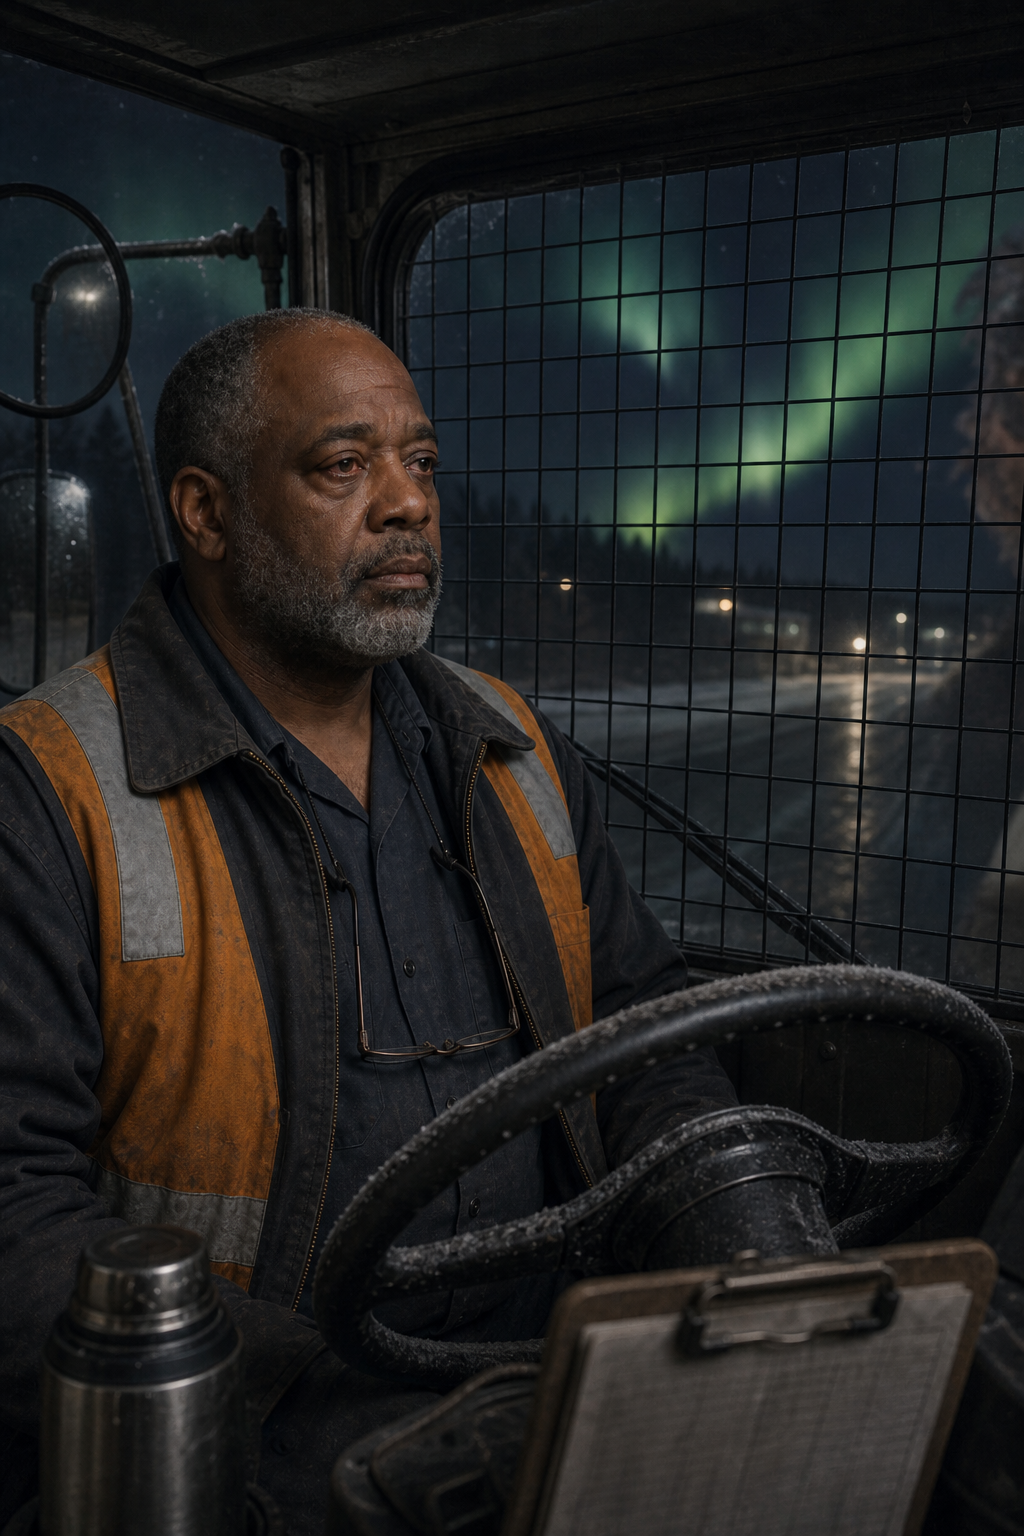
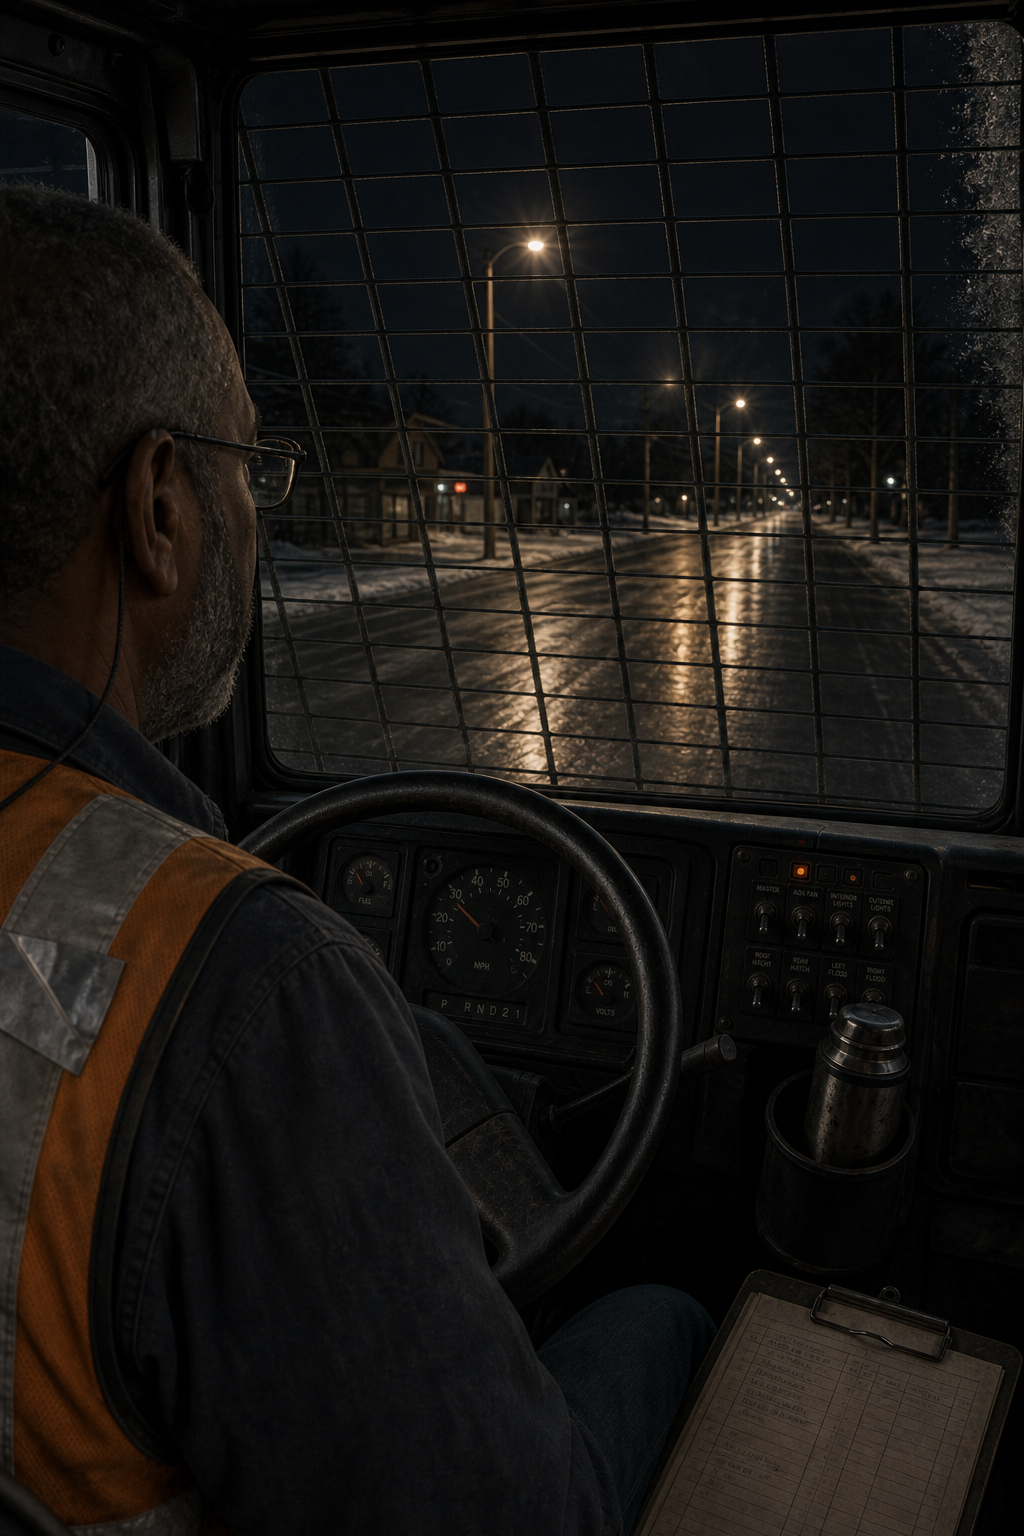
Seed III-025 to c-take 1, ice on Aurora Avenue with no northern lights.

diff --git a/src/game.js b/src/game.js
@@ -161,7 +161,7 @@ function sceneFragment(scene) {
 }
 
 function imageUrl(cardId) {
-  return "/api/run/image/" + encodeURIComponent(cardId) + "?v=a44";
+  return "/api/run/image/" + encodeURIComponent(cardId) + "?v=a45";
 }
 
 function cargoFrom(state) {
